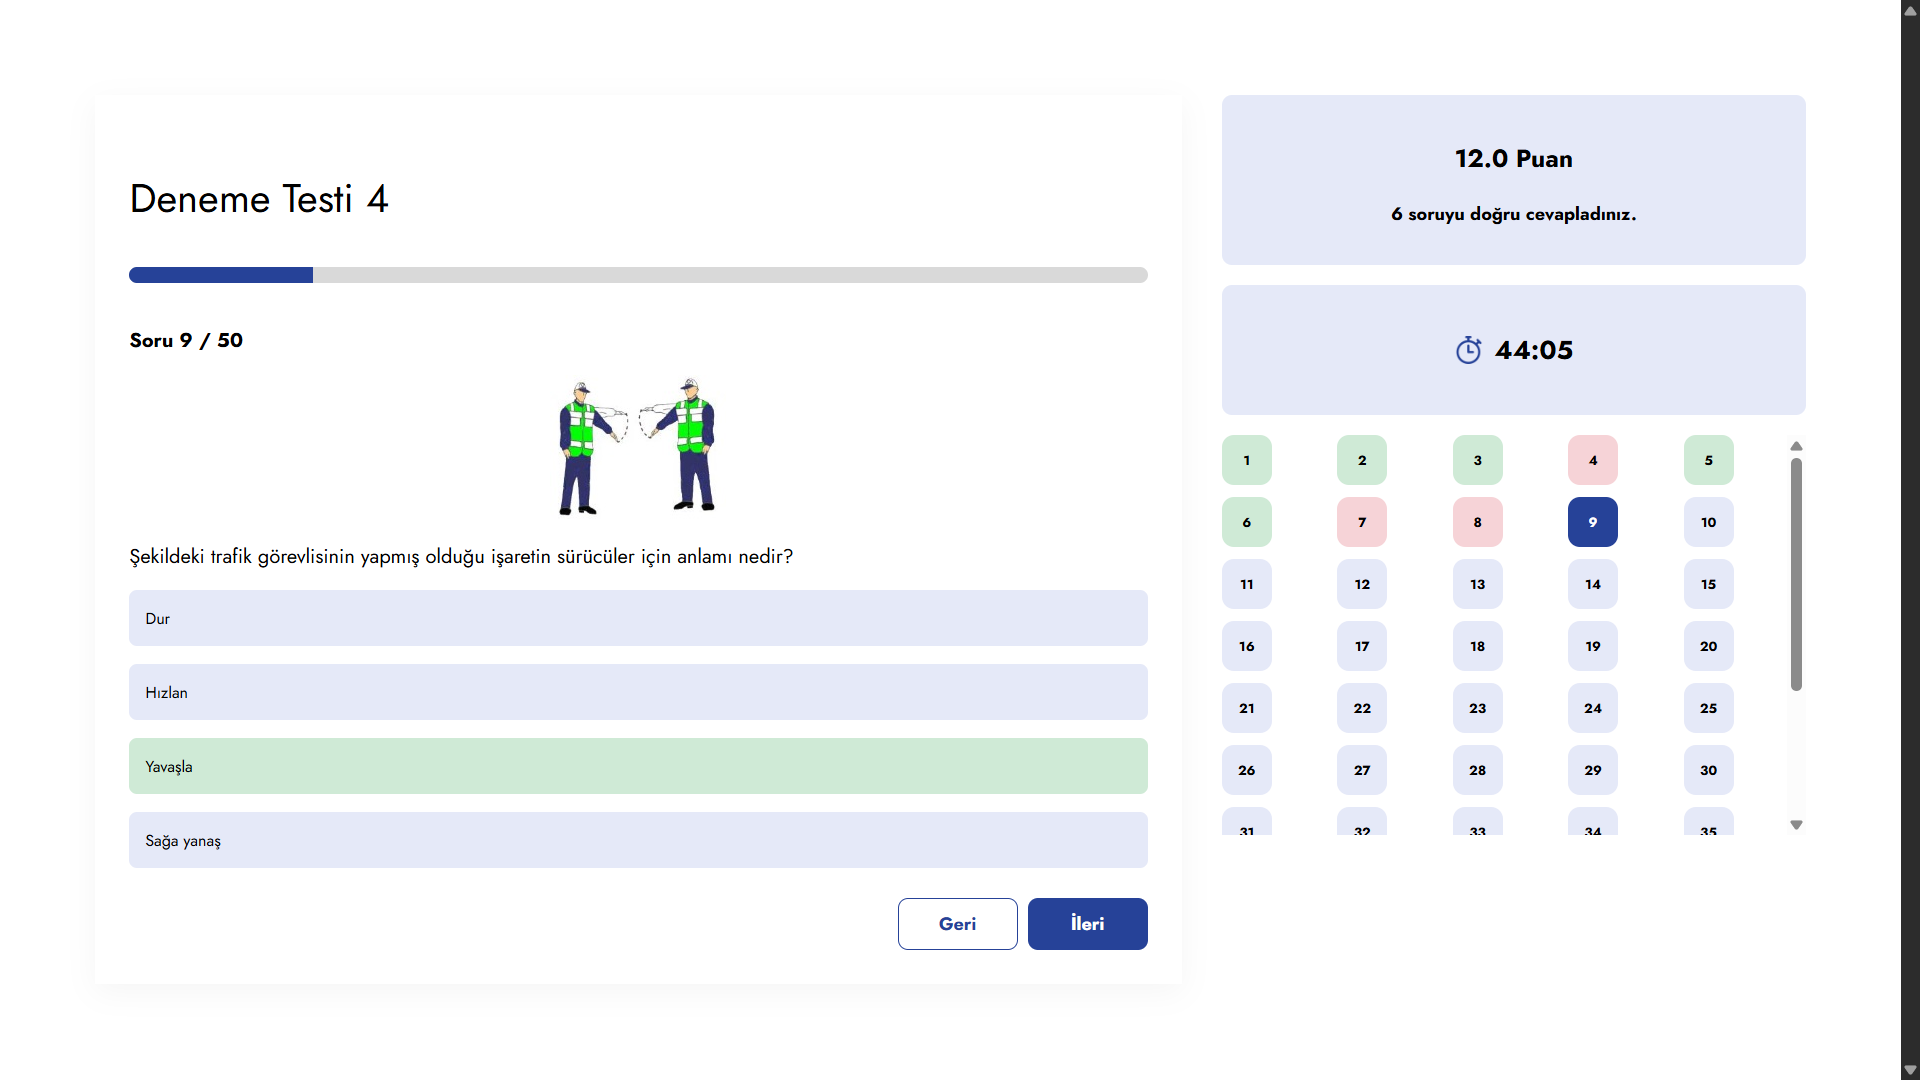
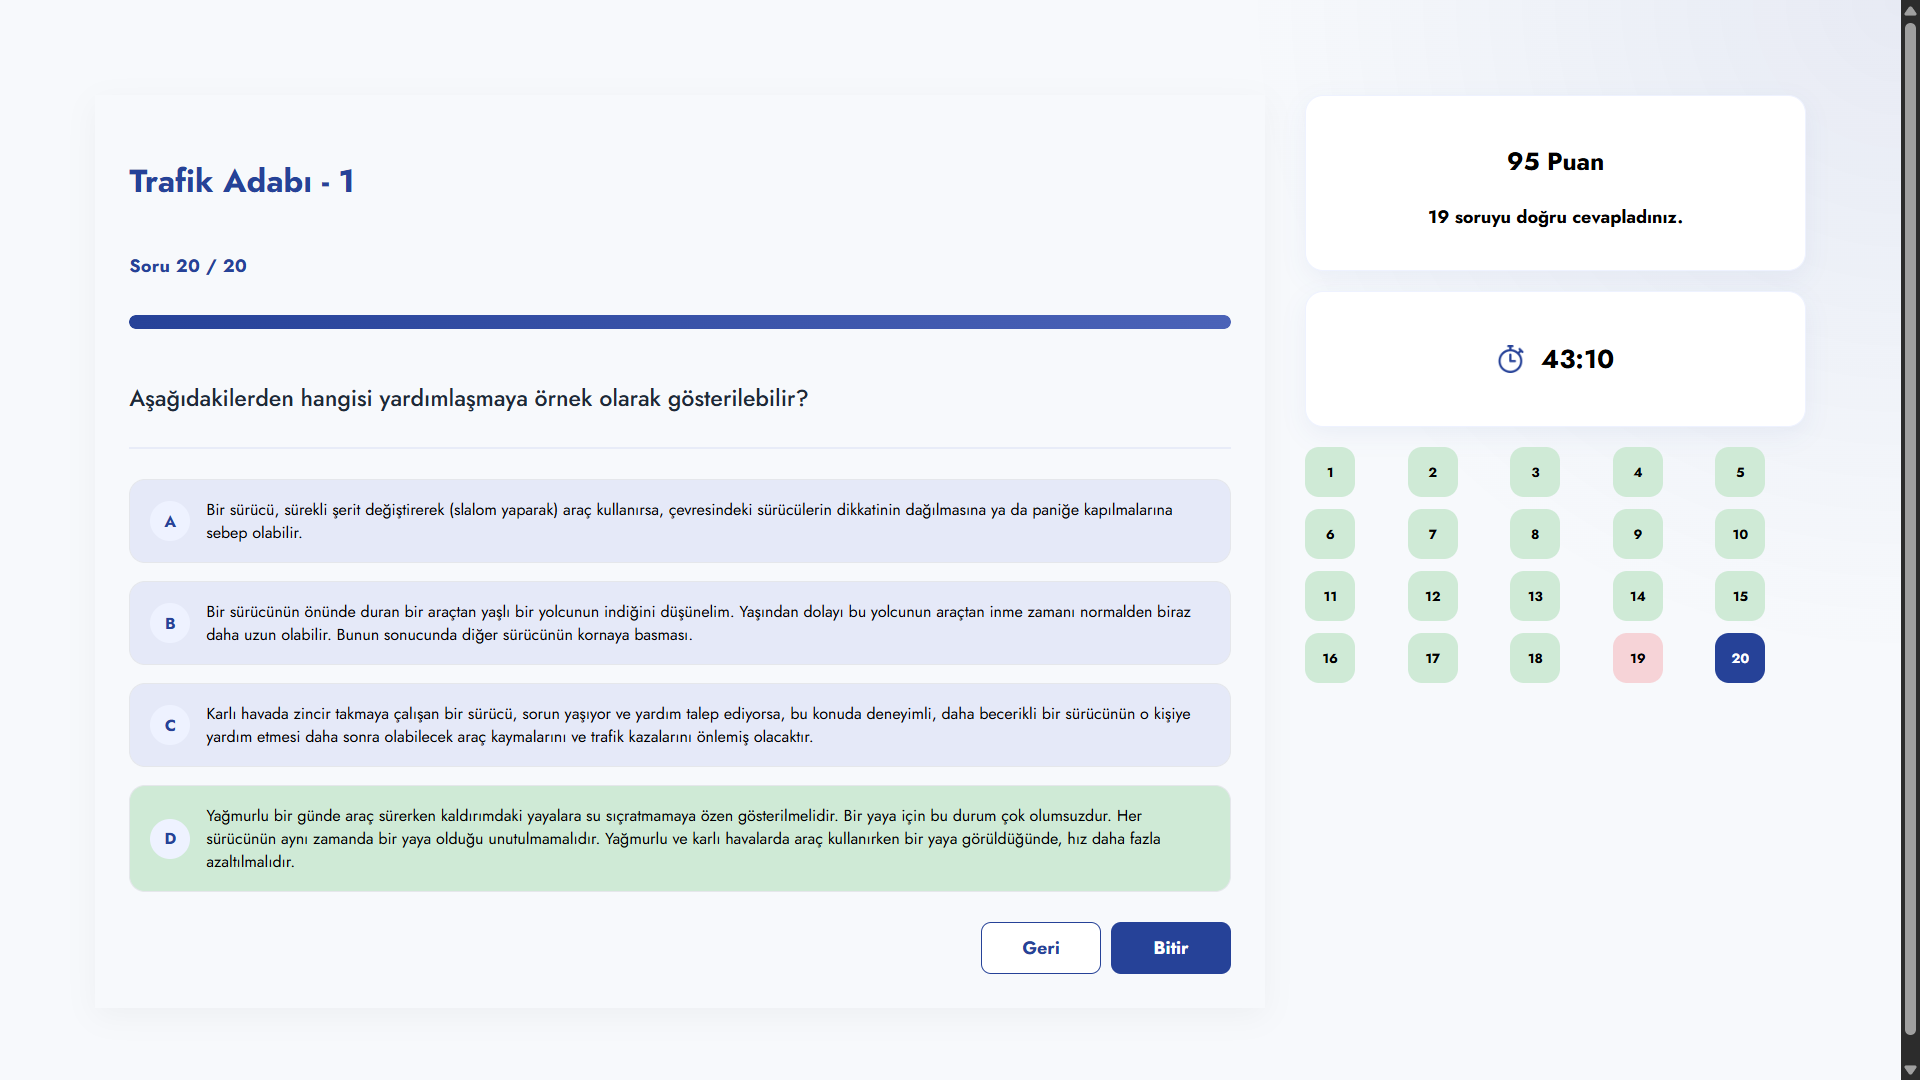
chore: finalize project for delivery

Changed region(s): [[0.0625, 0.0306, 1.0, 0.9472], [0.0625, 0.1528, 0.1875, 0.2139]]

diff --git a/css/style.css b/css/style.css
@@ -18,9 +18,6 @@
     color:#264298;
     line-height:1.3;
     }
-    *{
-    box-sizing:border-box;
-    }
     .question-video{
     display:block;
     width:100%;
@@ -409,10 +406,13 @@
         cursor:pointer;
         margin-top:8%;
         background-color:#e5e9f8;
-        height:40px;
+        height:45px;
         border-radius:10px;
         padding-top:10px;
         padding-left:15px;
+        color: #264298;
+        box-shadow:
+    0 12px 30px rgba(38,66,152,.08);
     }
 
     .modal-content{

diff --git a/js/script.js b/js/script.js
@@ -12,8 +12,6 @@
         const scoreElement = document.getElementById("score-text");
         const testTitle = document.getElementById("title");
         choicesBox.innerHTML = "";
-        const isCorrect = false;
-        const isUserAnswerCorrect = false;
         let correctAnswers = 0;
         const questionVideoContainer = document.getElementById("questionVideoContainer");
        
@@ -49,7 +47,7 @@
         {
             const currentQuestion = questions[currentQuestionIndex];
             questionNumberElement.textContent = "Soru " + (currentQuestionIndex + 1) + " / " + totalQuestions;
-            questionText.textContent = currentQuestion.questionText;
+            questionText.innerHTML = currentQuestion.questionText;
             questionImageContainer.innerHTML = "";
             questionVideoContainer.innerHTML = "";
 
@@ -158,7 +156,7 @@
                     }
 
                     const score = correctAnswers * pointPerQuestion;
-                    scoreElement.textContent = "Puan : "+  Math.round(score);
+                    scoreElement.textContent = Math.round(score) + ' Puan';
                 });
             });
 

diff --git a/error.php b/error.php
@@ -1,3 +1,22 @@
+<?php
+$code = $_GET["code"] ?? "";
+
+switch ($code) {
+    case "404":
+        $title = "Test Bulunamadı";
+        $message = "Aradığınız test mevcut değil.";
+        break;
+
+    case "db":
+        $title = "Veritabanı Hatası";
+        $message = "Lütfen daha sonra tekrar deneyiniz.";
+        break;
+
+    default:
+        $title = "Bir Hata Oluştu";
+        $message = "Beklenmeyen bir hata meydana geldi.";
+}
+?>
 <!DOCTYPE html>
 <html lang="tr">
 <head>
@@ -14,13 +33,11 @@
 
     <div class="error-card">
 
-        <h1>🚫 Test Bulunamadı</h1>
+        <h1>🚫 <?php echo $title; ?></h1>
 
         <p>
-            Aradığınız test mevcut değil
-            veya silinmiş olabilir.
+            <?php echo $message;?>
         </p>
-
         <button onclick="location.href='index.php'">
             Testlere Dön
         </button>

diff --git a/index.php b/index.php
@@ -34,12 +34,14 @@ $stmt = mysqli_prepare($conn, $query);
 
 if (!$stmt)
 {
-    exit("Veritabanı sorgusu hazırlanamadı.");
+   header("Location: error.php?code=db");
+   exit;
 }
 
 if (!mysqli_stmt_execute($stmt))
 {
-    exit("Sorgu çalıştırılamadı.");
+   header("Location: error.php?code=db");
+   exit;
 }
 
 $result = mysqli_stmt_get_result($stmt);

diff --git a/conn.php b/conn.php
@@ -9,7 +9,9 @@ $conn = new mysqli($servername, $username, $password, $dbname);
 
 if ($conn->connect_error)
 {
-    die("Veritabanına bağlanılamadı.");
+    error_log(mysqli_connect_error());
+    header("Location: error.php");
+    exit;
 }
 
 $conn->set_charset("utf8mb4");

diff --git a/test.php b/test.php
@@ -3,7 +3,7 @@
 
     if (!isset($_GET["testID"]) || !is_numeric($_GET["testID"])) 
     {
-        header("Location: error.php");
+         header("Location: error.php?code=404");
         exit;
     }
 
@@ -80,7 +80,7 @@
             <div class="mobile-top-row">
                 <section class="right-panel-top">
                     <div class="score-box">
-                        <center><p id="score-text">Puan : 0</p></center>
+                        <center><p id="score-text">0</p></center>
                         <center><p id="score-counter-text"> 0 soruyu doğru cevapladınız.</p></center>
                     </div>
                 </section>